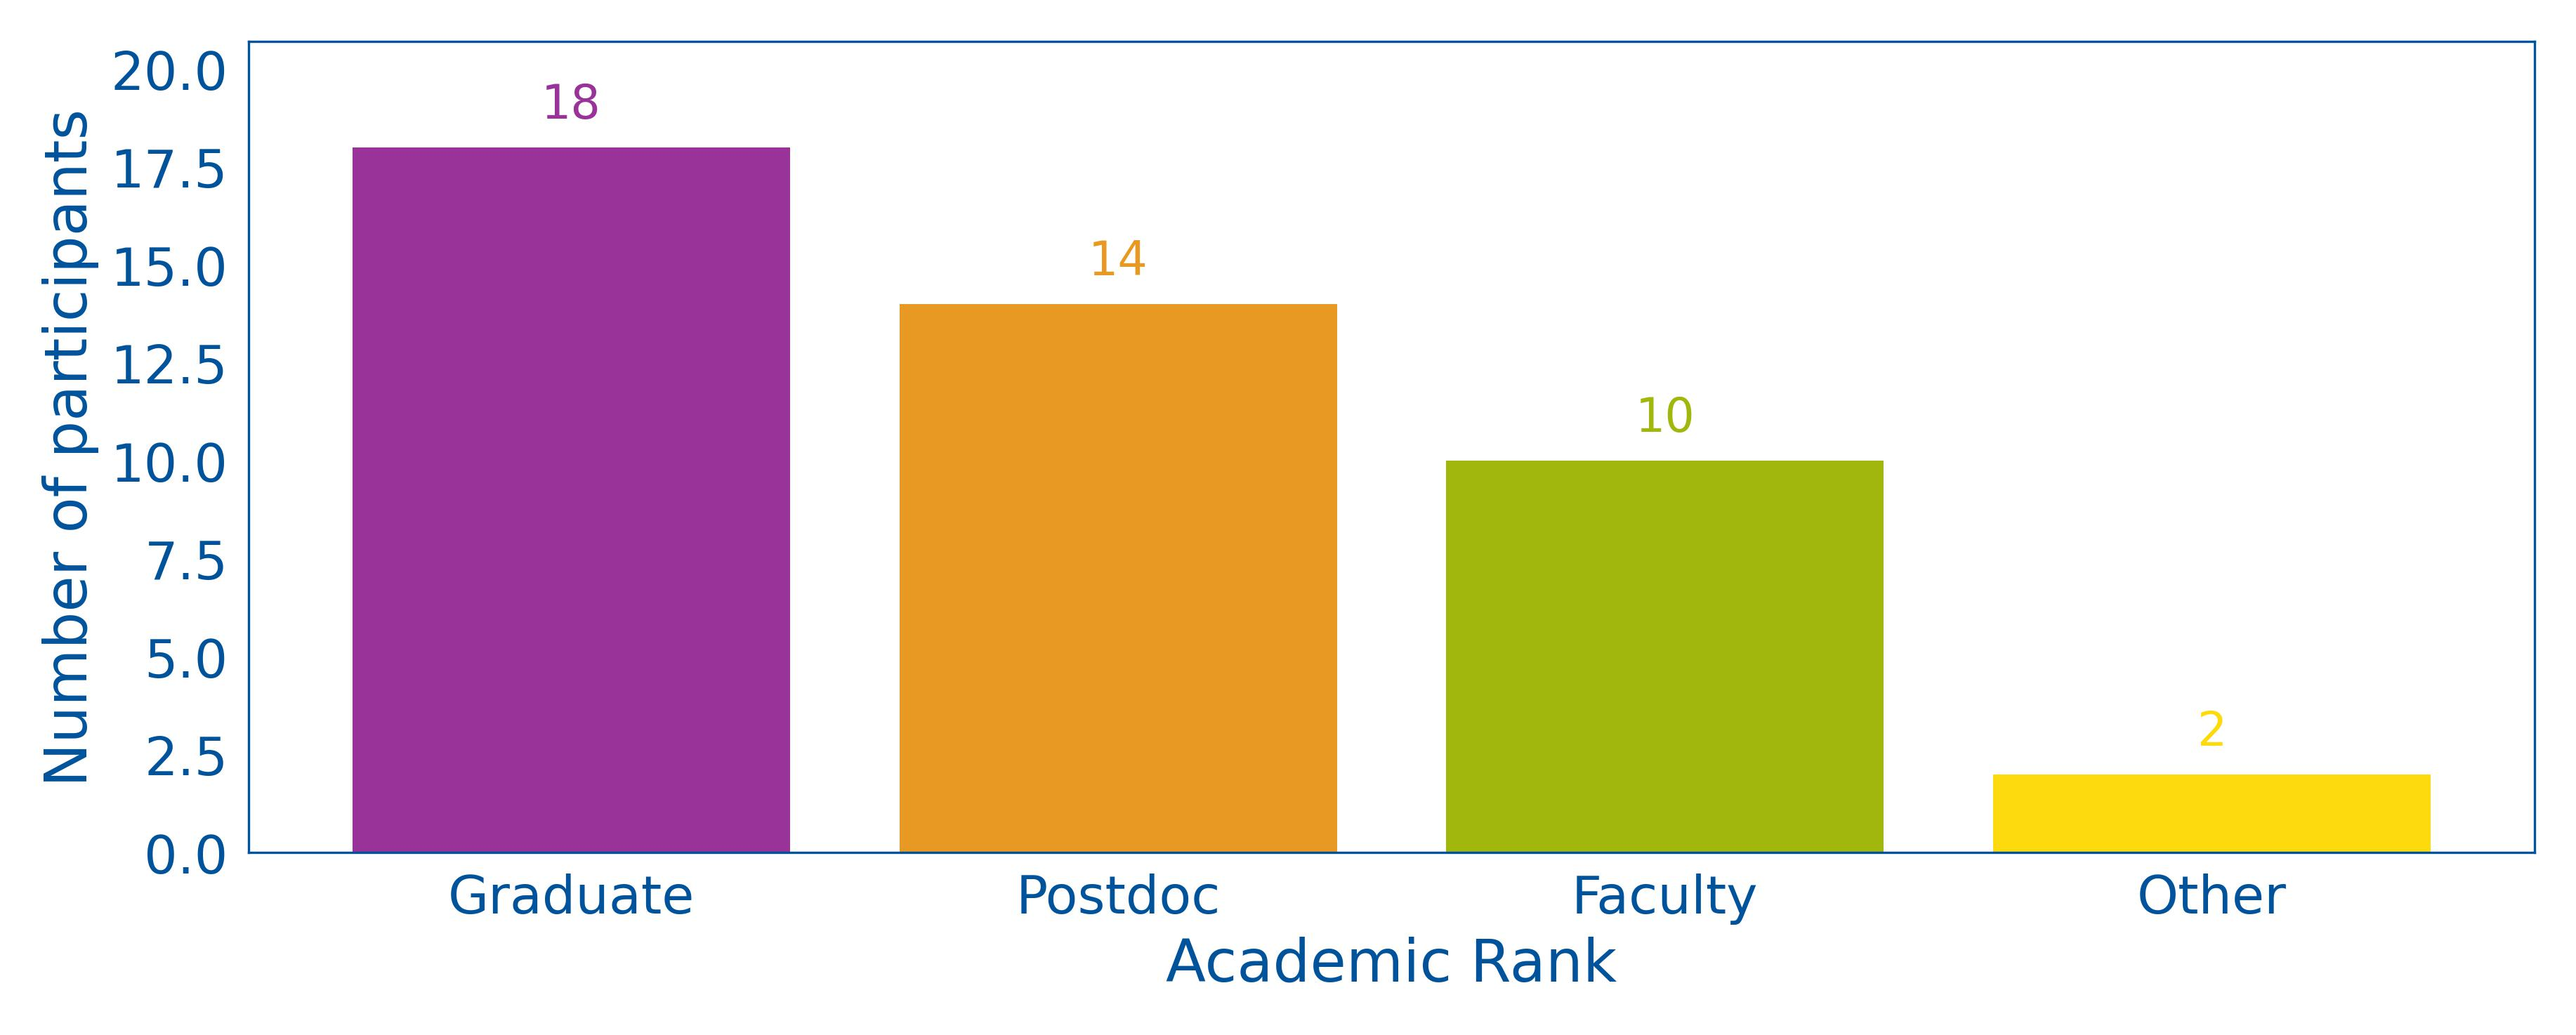
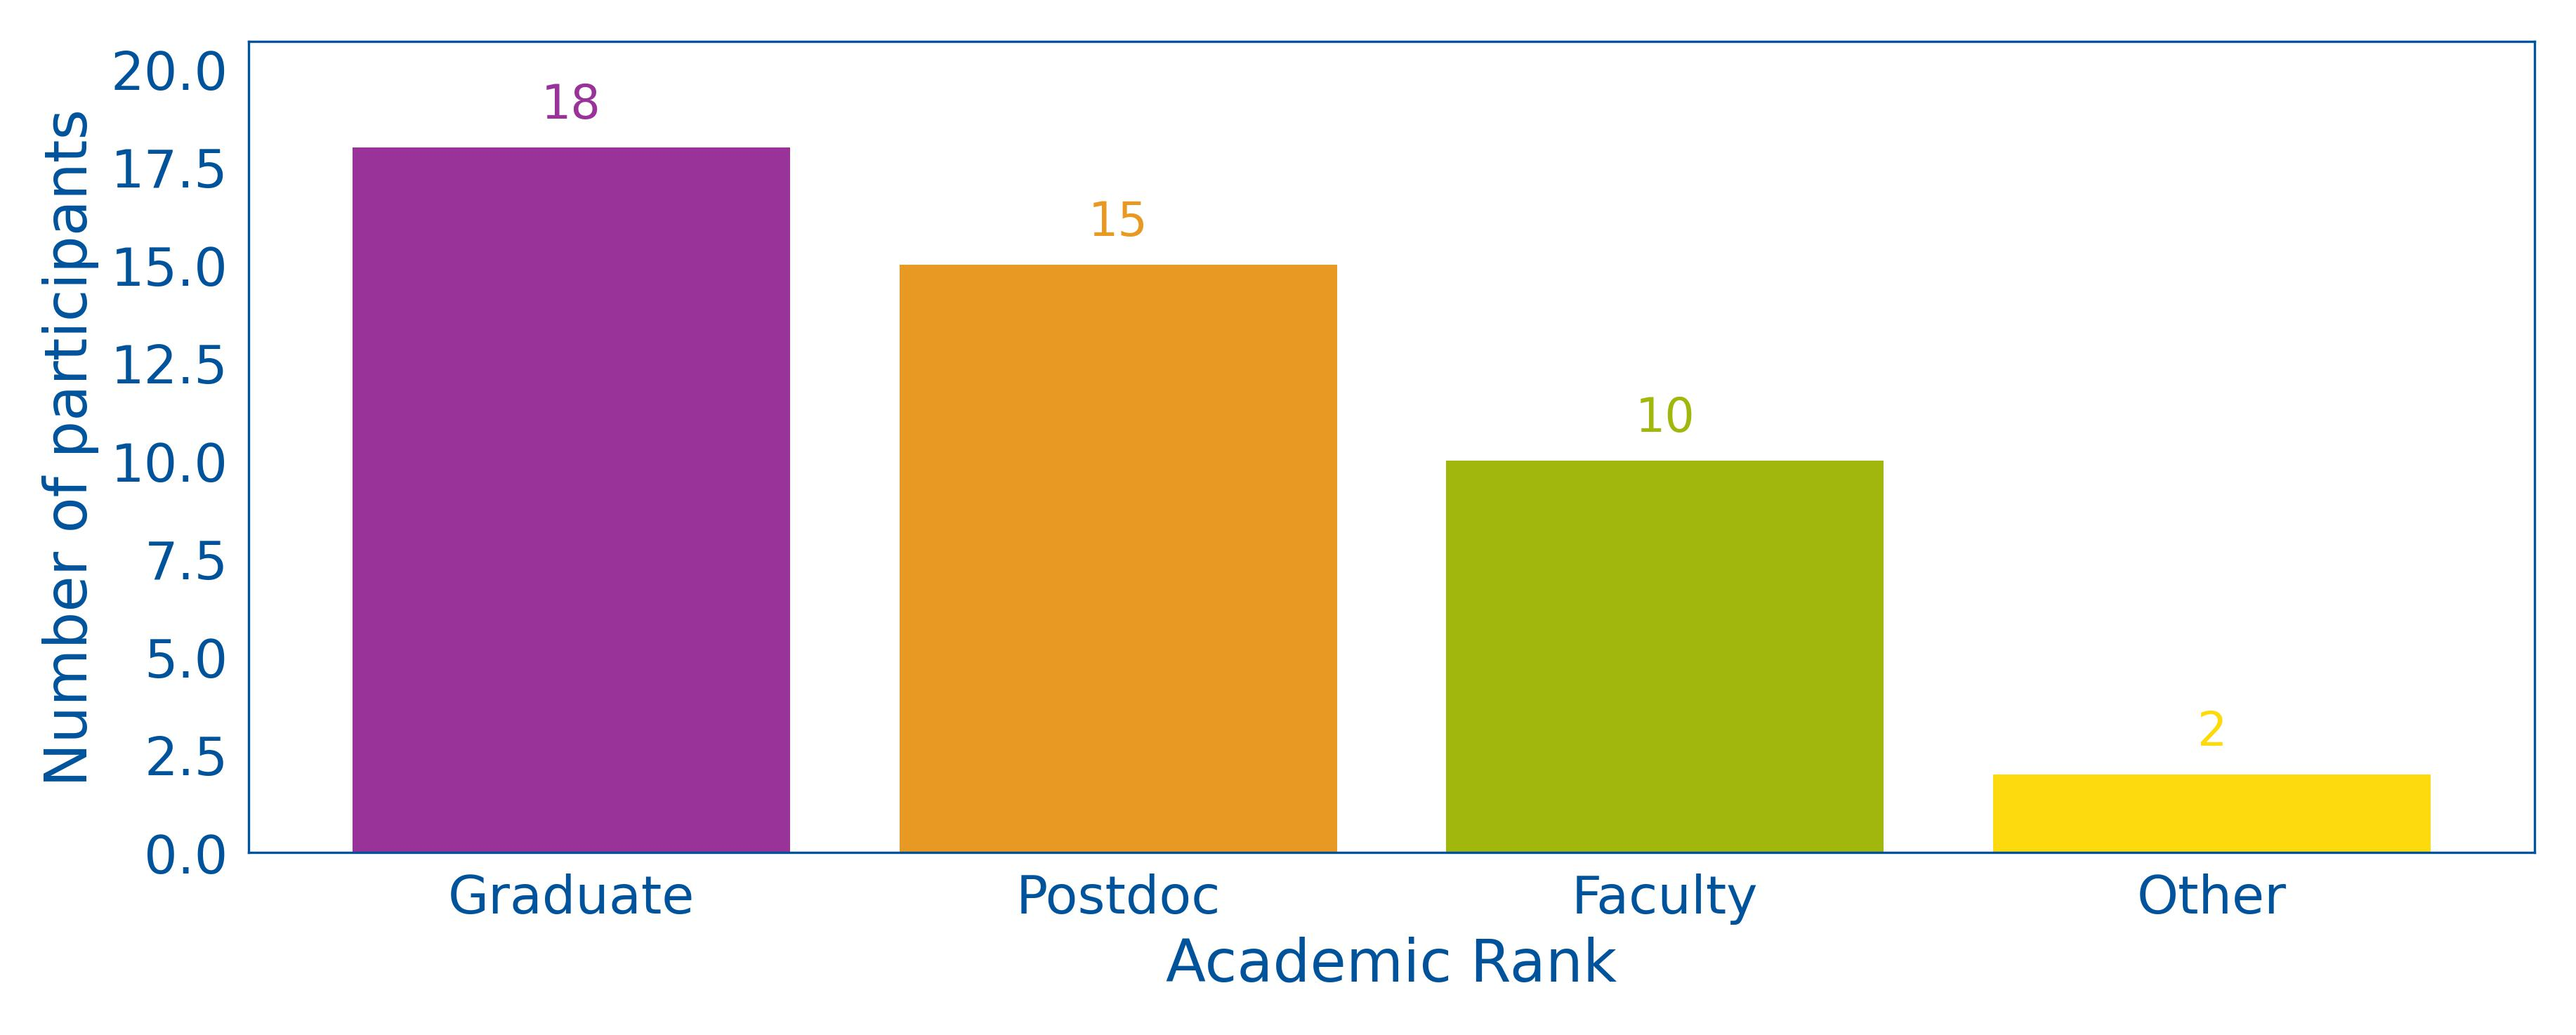
updated the participants page

Changed region(s): [[0.3419, 0.1872, 0.5284, 0.3121]]

diff --git a/docs/pages/participants.md b/docs/pages/participants.md
@@ -24,42 +24,43 @@ order: 4
 <tr class="att-onsite"><td>5</td><td>Navin Chaurasiya</td><td>Duke University</td><td>Onsite</td></tr>
 <tr class="att-onsite"><td>6</td><td>Elisa Chisari</td><td>Utrecht University</td><td>Onsite</td></tr>
 <tr class="att-online"><td>7</td><td>Sandrine Codis</td><td>CNRS/AIM</td><td>Online</td></tr>
-<tr class="att-onsite"><td>8</td><td>David Navarro Gironés</td><td>Leiden Observatory</td><td>Onsite</td></tr>
-<tr class="att-onsite"><td>9</td><td>Rafael Gomes</td><td>University of Pennsylvania</td><td>Onsite</td></tr>
-<tr class="att-online"><td>10</td><td>Elizabeth Gonzalez</td><td>PIC-IFAE</td><td>Online</td></tr>
-<tr class="att-online"><td>11</td><td>Nisha Grewal</td><td>Newcastle University</td><td>Online</td></tr>
-<tr class="att-online"><td>12</td><td>Joachim Harnois-Deraps</td><td>Newcastle University</td><td>Online</td></tr>
-<tr class="att-onsite"><td>13</td><td>Aniruddh Herle</td><td>Leiden Observatory</td><td>Onsite</td></tr>
-<tr class="att-onsite"><td>14</td><td>Mustapha Ishak</td><td>University of Texas at Dallas</td><td>Onsite</td></tr>
-<tr class="att-onsite"><td>15</td><td>Benjamin Joachimi</td><td>University College London</td><td>Onsite</td></tr>
-<tr class="att-onsite"><td>16</td><td>HyeongHan Kim</td><td>Duke University</td><td>Onsite</td></tr>
-<tr class="att-onsite"><td>17</td><td>Manvik Kongwad</td><td>North Carolina School of Science and Maths</td><td>Onsite</td></tr>
-<tr class="att-onsite"><td>18</td><td>Xu Kun</td><td>University of Pennsylvania</td><td>Onsite</td></tr>
-<tr class="att-online"><td>19</td><td>Elisa Legnani</td><td>IFAE Barcelona</td><td>Online</td></tr>
-<tr class="att-onsite"><td>20</td><td>Dani Leonard</td><td>Newcastle University</td><td>Onsite</td></tr>
-<tr class="att-onsite"><td>21</td><td>Sid Mau</td><td>Duke University</td><td>Onsite</td></tr>
-<tr class="att-onsite"><td>22</td><td>Jamie McCullough</td><td>Princeton University</td><td>Onsite</td></tr>
-<tr class="att-online"><td>23</td><td>Hironao Miyatake</td><td>Nagoya University</td><td>Online</td></tr>
-<tr class="att-online"><td>24</td><td>Dennis Neumann</td><td>Leiden Observatory</td><td>Online</td></tr>
-<tr class="att-online"><td>25</td><td>Rylee Palos</td><td>University of Texas at Dallas</td><td>Online</td></tr>
-<tr class="att-onsite"><td>26</td><td>Sneh Pandya</td><td>Northeastern University</td><td>Onsite</td></tr>
-<tr class="att-online"><td>27</td><td>Romain Paviot</td><td>CNES CEA Saclay</td><td>Online</td></tr>
-<tr class="att-online"><td>28</td><td>Fabian Hervas Peters</td><td>CEA Paris-Saclay</td><td>Online</td></tr>
-<tr class="att-onsite"><td>29</td><td>Bekah Polen</td><td>Duke University</td><td>Onsite</td></tr>
-<tr class="att-online"><td>30</td><td>Susan Pyne</td><td>University College London</td><td>Online</td></tr>
-<tr class="att-onsite"><td>31</td><td>Paul Rogozenski</td><td>Carnegie Mellon University</td><td>Onsite</td></tr>
-<tr class="att-onsite"><td>32</td><td>Niko Sarcevic</td><td>Duke University</td><td>Onsite</td></tr>
-<tr class="att-onsite"><td>33</td><td>Jared Siegel</td><td>Princeton University</td><td>Onsite</td></tr>
-<tr class="att-online"><td>34</td><td>Leonor Simoes</td><td>University College London</td><td>Online</td></tr>
-<tr class="att-onsite"><td>35</td><td>Raul Teixeira</td><td>Duke University</td><td>Onsite</td></tr>
-<tr class="att-onsite"><td>36</td><td>Michael Troxel</td><td>Duke University</td><td>Onsite</td></tr>
-<tr class="att-onsite"><td>37</td><td>Nick Van Alfen</td><td>Northeastern University</td><td>Onsite</td></tr>
-<tr class="att-onsite"><td>38</td><td>Leo Medina Varela</td><td>Carnegie Mellon University</td><td>Onsite</td></tr>
-<tr class="att-online"><td>39</td><td>Casper Vedder</td><td>Leiden University</td><td>Online</td></tr>
-<tr class="att-onsite"><td>40</td><td>Jiachuan Xu</td><td>Northeastern University</td><td>Onsite</td></tr>
-<tr class="att-onsite"><td>41</td><td>Zepei Yang</td><td>Northeastern University</td><td>Onsite</td></tr>
-<tr class="att-onsite"><td>42</td><td>Boyan Yin</td><td>Duke University</td><td>Onsite</td></tr>
-<tr class="att-online"><td>43</td><td>Marloes van Heukelum</td><td>Utrecht University</td><td>Online</td></tr>
+<tr class="att-online"><td>8</td><td>Christos Georgiou</td><td>IFAE Barcelona</td><td>Online</td></tr>
+<tr class="att-onsite"><td>9</td><td>David Navarro Gironés</td><td>Leiden Observatory</td><td>Onsite</td></tr>
+<tr class="att-onsite"><td>10</td><td>Rafael Gomes</td><td>University of Pennsylvania</td><td>Onsite</td></tr>
+<tr class="att-online"><td>11</td><td>Elizabeth Gonzalez</td><td>PIC-IFAE</td><td>Online</td></tr>
+<tr class="att-online"><td>12</td><td>Nisha Grewal</td><td>Newcastle University</td><td>Online</td></tr>
+<tr class="att-online"><td>13</td><td>Joachim Harnois-Deraps</td><td>Newcastle University</td><td>Online</td></tr>
+<tr class="att-onsite"><td>14</td><td>Aniruddh Herle</td><td>Leiden Observatory</td><td>Onsite</td></tr>
+<tr class="att-onsite"><td>15</td><td>Mustapha Ishak</td><td>University of Texas at Dallas</td><td>Onsite</td></tr>
+<tr class="att-onsite"><td>16</td><td>Benjamin Joachimi</td><td>University College London</td><td>Onsite</td></tr>
+<tr class="att-onsite"><td>17</td><td>HyeongHan Kim</td><td>Duke University</td><td>Onsite</td></tr>
+<tr class="att-onsite"><td>18</td><td>Manvik Kongwad</td><td>North Carolina School of Science and Maths</td><td>Onsite</td></tr>
+<tr class="att-onsite"><td>19</td><td>Xu Kun</td><td>University of Pennsylvania</td><td>Onsite</td></tr>
+<tr class="att-online"><td>20</td><td>Elisa Legnani</td><td>IFAE Barcelona</td><td>Online</td></tr>
+<tr class="att-onsite"><td>21</td><td>Dani Leonard</td><td>Newcastle University</td><td>Onsite</td></tr>
+<tr class="att-onsite"><td>22</td><td>Sid Mau</td><td>Duke University</td><td>Onsite</td></tr>
+<tr class="att-onsite"><td>23</td><td>Jamie McCullough</td><td>Princeton University</td><td>Onsite</td></tr>
+<tr class="att-online"><td>24</td><td>Hironao Miyatake</td><td>Nagoya University</td><td>Online</td></tr>
+<tr class="att-online"><td>25</td><td>Dennis Neumann</td><td>Leiden Observatory</td><td>Online</td></tr>
+<tr class="att-online"><td>26</td><td>Rylee Palos</td><td>University of Texas at Dallas</td><td>Online</td></tr>
+<tr class="att-onsite"><td>27</td><td>Sneh Pandya</td><td>Northeastern University</td><td>Onsite</td></tr>
+<tr class="att-online"><td>28</td><td>Romain Paviot</td><td>CNES CEA Saclay</td><td>Online</td></tr>
+<tr class="att-online"><td>29</td><td>Fabian Hervas Peters</td><td>CEA Paris-Saclay</td><td>Online</td></tr>
+<tr class="att-onsite"><td>30</td><td>Bekah Polen</td><td>Duke University</td><td>Onsite</td></tr>
+<tr class="att-online"><td>31</td><td>Susan Pyne</td><td>University College London</td><td>Online</td></tr>
+<tr class="att-onsite"><td>32</td><td>Paul Rogozenski</td><td>Carnegie Mellon University</td><td>Onsite</td></tr>
+<tr class="att-onsite"><td>33</td><td>Niko Sarcevic</td><td>Duke University</td><td>Onsite</td></tr>
+<tr class="att-onsite"><td>34</td><td>Jared Siegel</td><td>Princeton University</td><td>Onsite</td></tr>
+<tr class="att-online"><td>35</td><td>Leonor Simoes</td><td>University College London</td><td>Online</td></tr>
+<tr class="att-onsite"><td>36</td><td>Raul Teixeira</td><td>Duke University</td><td>Onsite</td></tr>
+<tr class="att-onsite"><td>37</td><td>Michael Troxel</td><td>Duke University</td><td>Onsite</td></tr>
+<tr class="att-onsite"><td>38</td><td>Nick Van Alfen</td><td>Northeastern University</td><td>Onsite</td></tr>
+<tr class="att-onsite"><td>39</td><td>Leo Medina Varela</td><td>Carnegie Mellon University</td><td>Onsite</td></tr>
+<tr class="att-online"><td>40</td><td>Casper Vedder</td><td>Leiden University</td><td>Online</td></tr>
+<tr class="att-onsite"><td>41</td><td>Jiachuan Xu</td><td>Northeastern University</td><td>Onsite</td></tr>
+<tr class="att-onsite"><td>42</td><td>Zepei Yang</td><td>Northeastern University</td><td>Onsite</td></tr>
+<tr class="att-onsite"><td>43</td><td>Boyan Yin</td><td>Duke University</td><td>Onsite</td></tr>
+<tr class="att-online"><td>44</td><td>Marloes van Heukelum</td><td>Utrecht University</td><td>Online</td></tr>
 </tbody>
 </table>
 
@@ -70,9 +71,9 @@ order: 4
   </thead>
   <tbody>
     <tr class="att-onsite"><td>Onsite</td><td>29</td></tr>
-    <tr class="att-online"><td>Online</td><td>14</td></tr>
+    <tr class="att-online"><td>Online</td><td>15</td></tr>
     <tr class="att-unknown"><td>Unknown/Other</td><td>0</td></tr>
-    <tr><td><strong>Total</strong></td><td><strong>43</strong></td></tr>
+    <tr><td><strong>Total</strong></td><td><strong>44</strong></td></tr>
   </tbody>
 </table>
 ---
